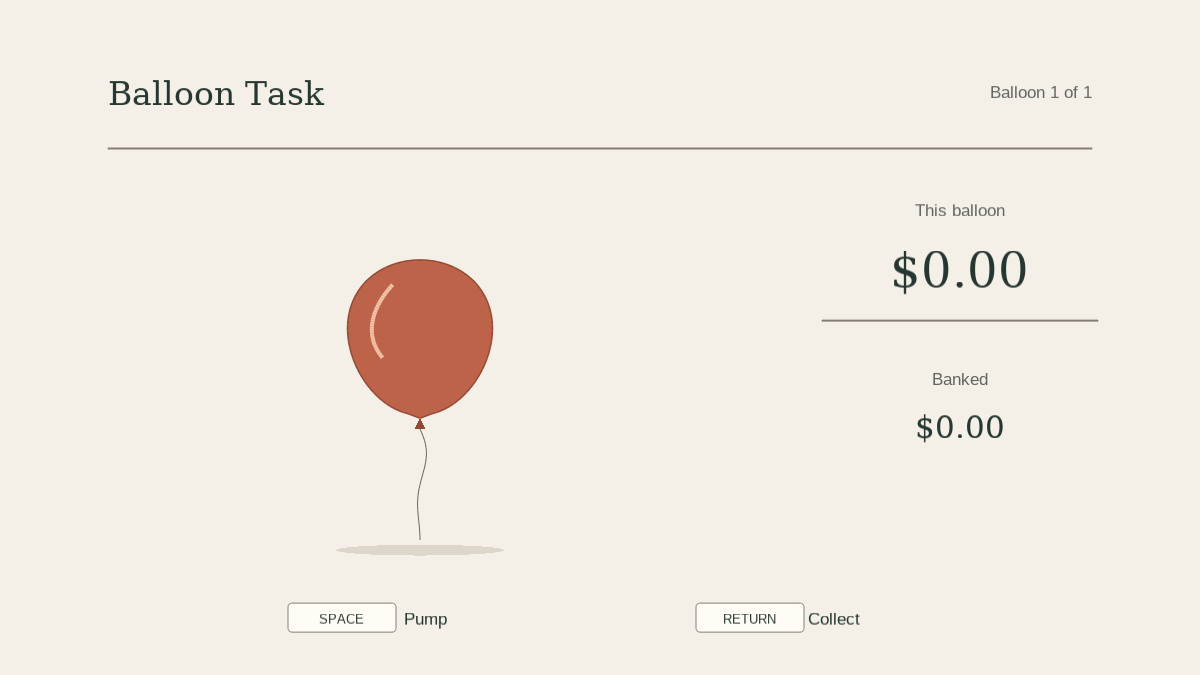
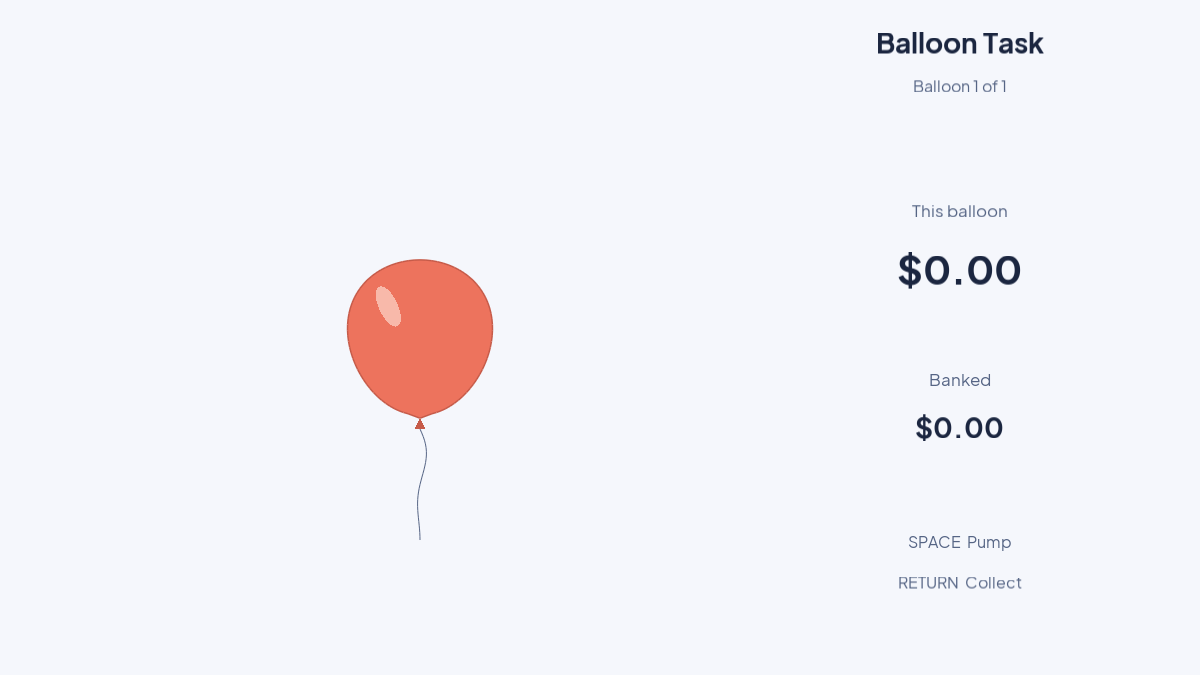
Refresh real modern game captures with open-field balloon growth

diff --git a/docs/screenshots/README.md b/docs/screenshots/README.md
@@ -12,12 +12,13 @@ VLC video playback or the participant dialog. Video content was not captured.
 The SAM demonstration selects 5 on both scales. The IGT chooses deck 1 for five
 trials with seeded randomness. BART collects one balloon after twenty pumps and a separate seeded
 demonstration after 127 pumps, with audio muted. Neither uses forced outcomes. Exact runtime/source details are in [provenance.json](provenance.json).
-The [successful hosted run](https://github.com/Roobahist/bart_igt/actions/runs/38172580303)
+The [successful hosted run](https://github.com/Roobahist/bart_igt/actions/runs/38173537112)
 used PsychoPy 2026.2.4 and Python 3.11.17.
 
-The task redesign uses printed deck backs and a light selected card containing
-gain/loss labels and amounts. BART uses a native vector balloon, a separate reward
-ledger and keyboard legends. Balloon artwork, position and visual growth range
+The modern game presentation uses matching blue deck backs, white selected cards
+with gain/loss feedback, and bundled Plus Jakarta Sans. BART uses a native vector
+balloon on an uninterrupted field, with all status and plain keyboard legends to
+the side. No divider, floor shadow, frame or capacity gauge surrounds its growth. Balloon artwork, position and visual growth range
 have changed; task probabilities and rewards are retained. See
 [the design decisions](../ui-design.md) for rationale and protocol implications.
 
